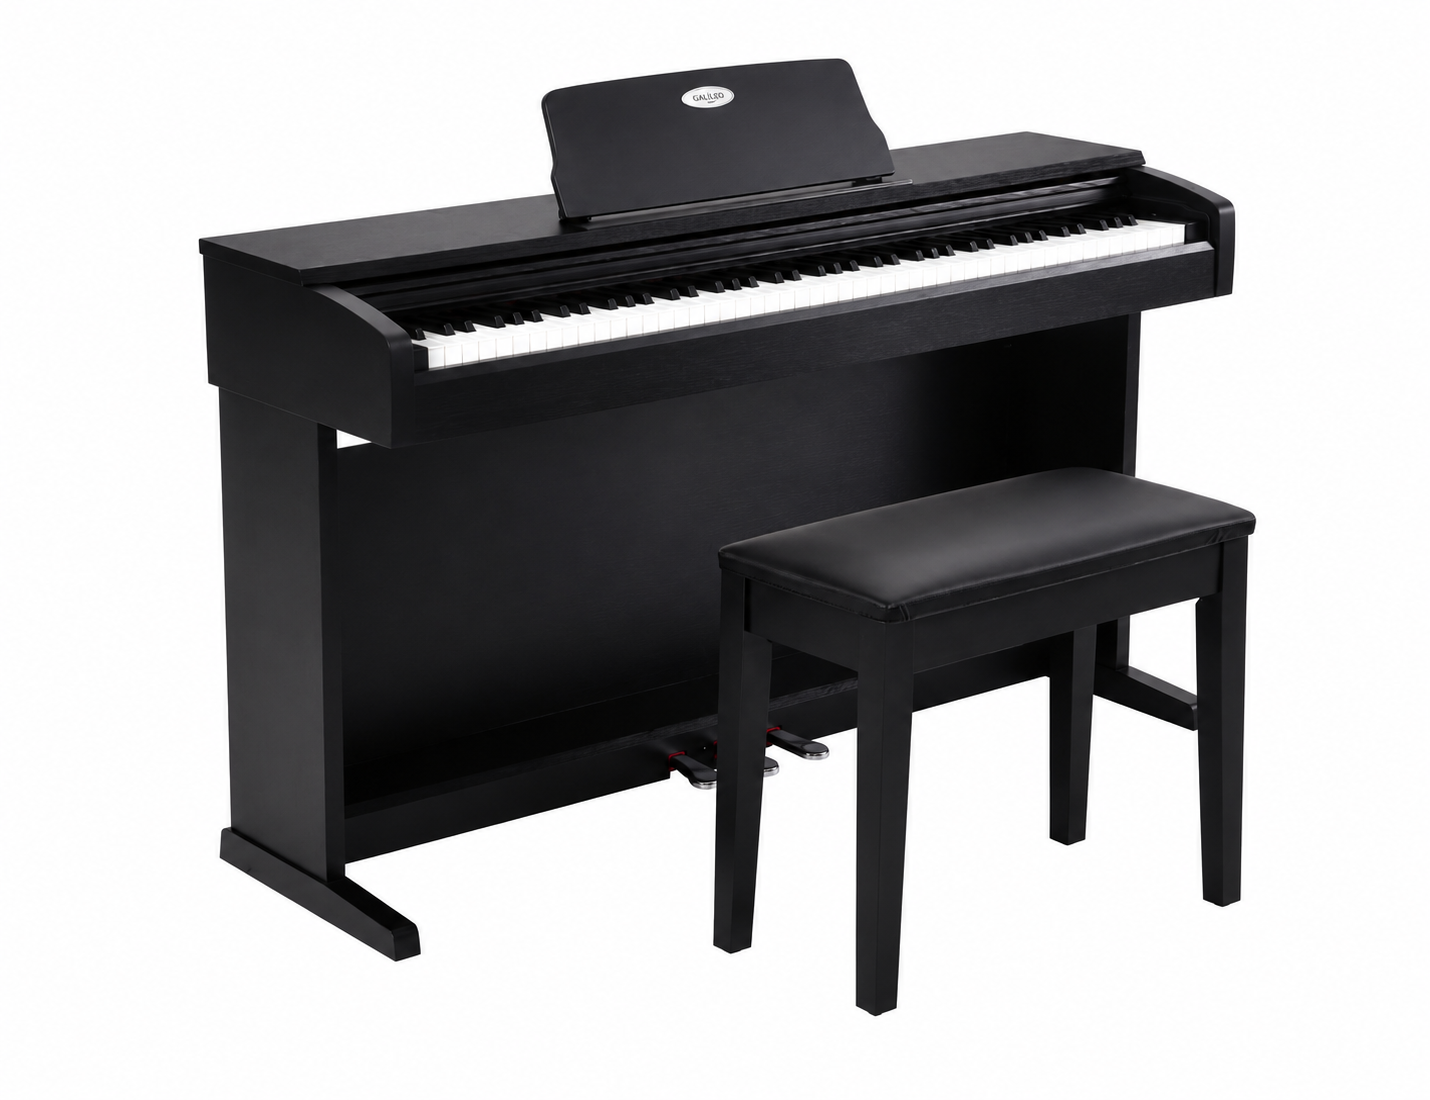
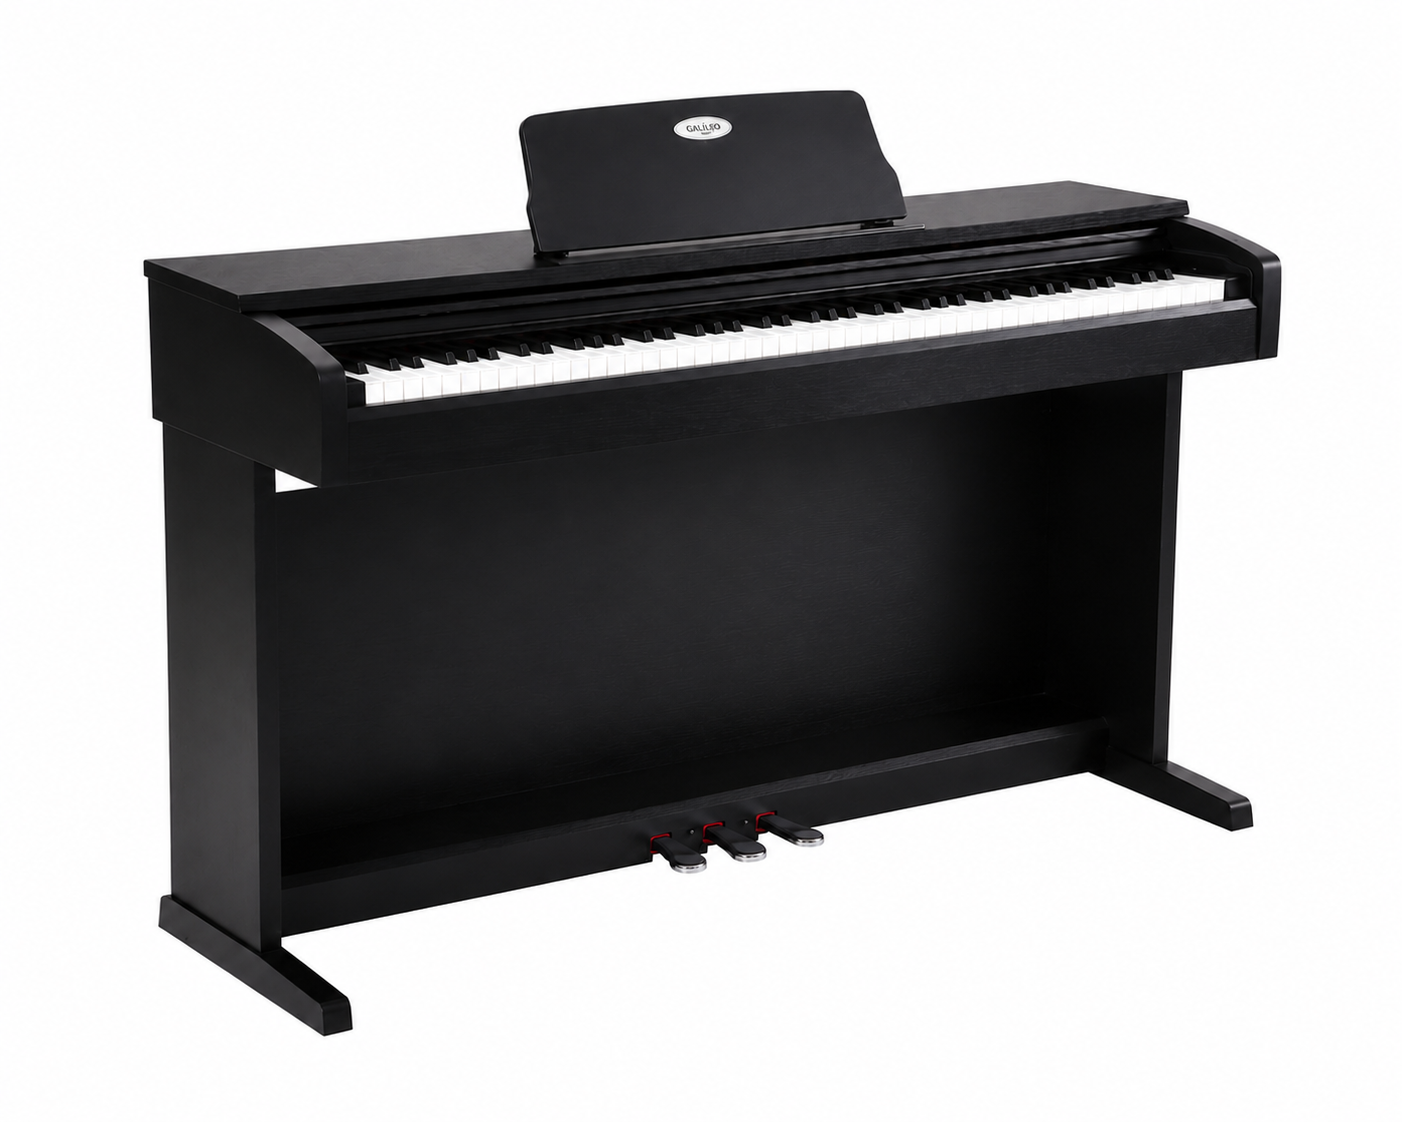
added new instruments

diff --git a/index.html b/index.html
@@ -81,8 +81,9 @@
                 <button onclick="filterProducts('violin', this)">Violins</button>
                 <button onclick="filterProducts('drums', this)">Drums</button>
                 <button onclick="filterProducts('oriental', this)">Oriental</button>
+                <button onclick="filterProducts('accessories', this)">Wind Instruments</button>
+                <button onclick="filterProducts('accessories', this)">Percussions</button>
                 <button onclick="filterProducts('accessories', this)">Accessories</button>
-
             </div>
 
         </div>